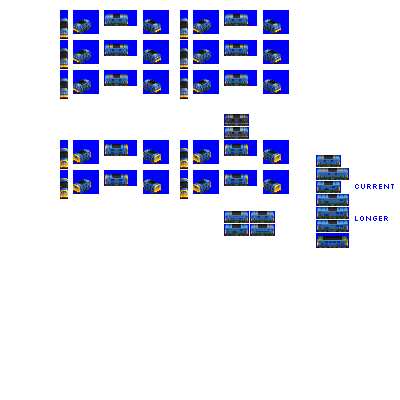
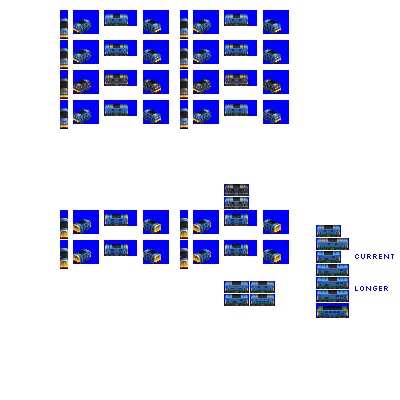
Change: additional liveries for Argus, Pinhorse

diff --git a/src/vehicles/pony/pinhorse.py b/src/vehicles/pony/pinhorse.py
@@ -20,7 +20,7 @@ def main(**kwargs):
         intro_year_offset=3,  # introduce later than gen epoch by design
         fixed_run_cost_points=120,  # substantial cost bonus for balance against same-era steam engines
         extended_vehicle_life=True,
-        liveries=["LOWER_LINES", "BANGER_BLUE"],
+        liveries=["LOWER_LINES", "BANGER_BLUE", "FREIGHT_BLACK"],
         sprites_complete=True,
     )
 

diff --git a/src/vehicles/pony/argus.py b/src/vehicles/pony/argus.py
@@ -19,7 +19,7 @@ def main(**kwargs):
         gen=3,
         intro_year_offset=4,  # introduce later than gen epoch by design
         extended_vehicle_life=True,
-        liveries=["LOWER_LINES", "BANGER_BLUE"],
+        liveries=["LOWER_LINES", "BANGER_BLUE", "FREIGHT_BLACK"],
         sprites_complete=True,
     )
 

diff --git a/bin/company_colour_remaps.py b/bin/company_colour_remaps.py
@@ -9,10 +9,8 @@ from polar_fox import graphics_units
 # requires a tmp dir to exist, which should be gitignored
 # set the filename
 input_filenames = [
-    "kelpie",
-    "merrylegs",
-    "lark",
-    "proper_job",
+    "pinhorse",
+    "argus",
 ]
 
 CC1 = 198
